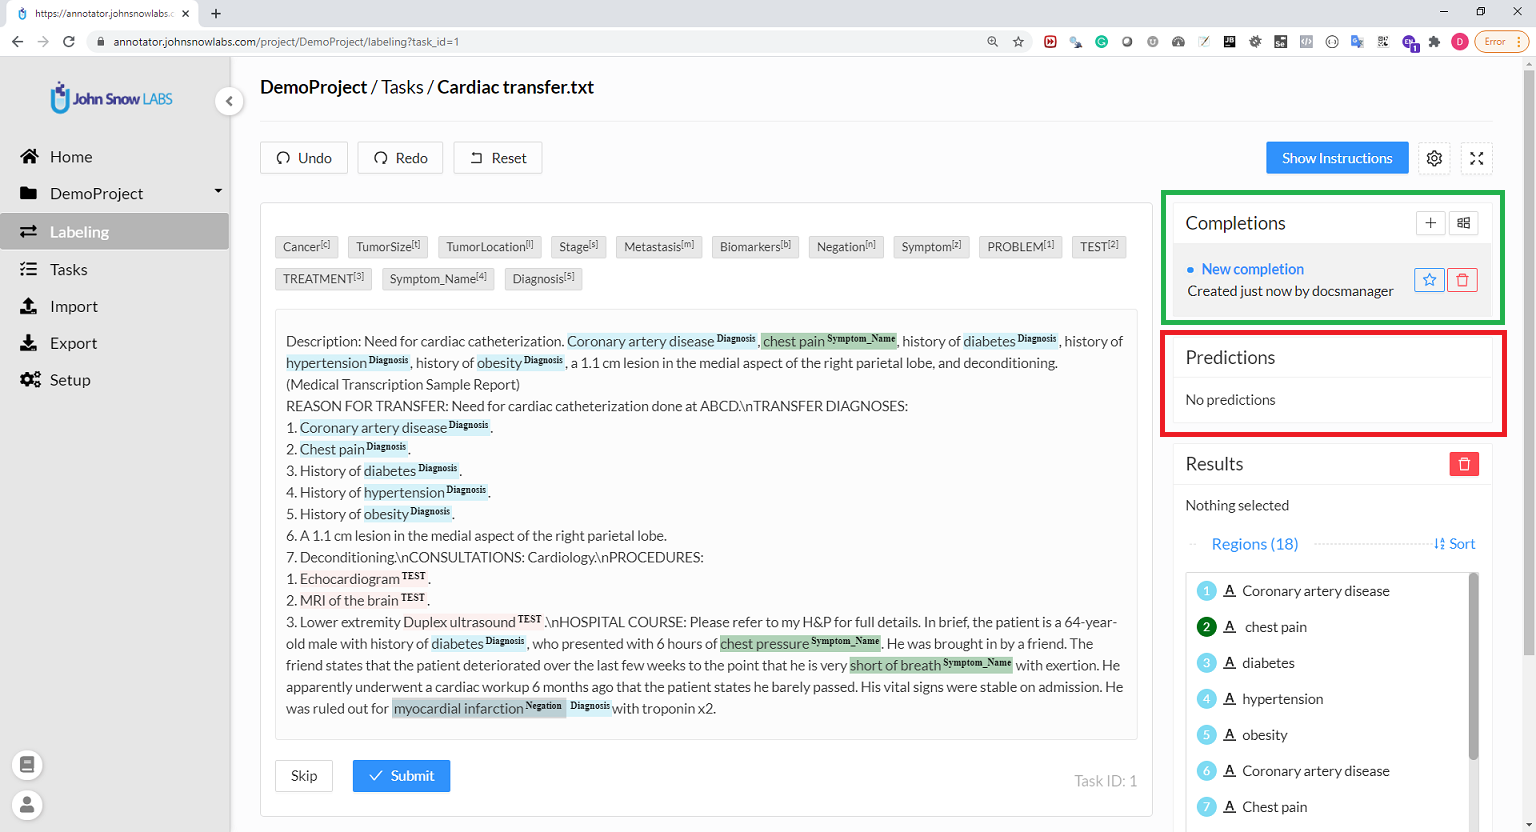
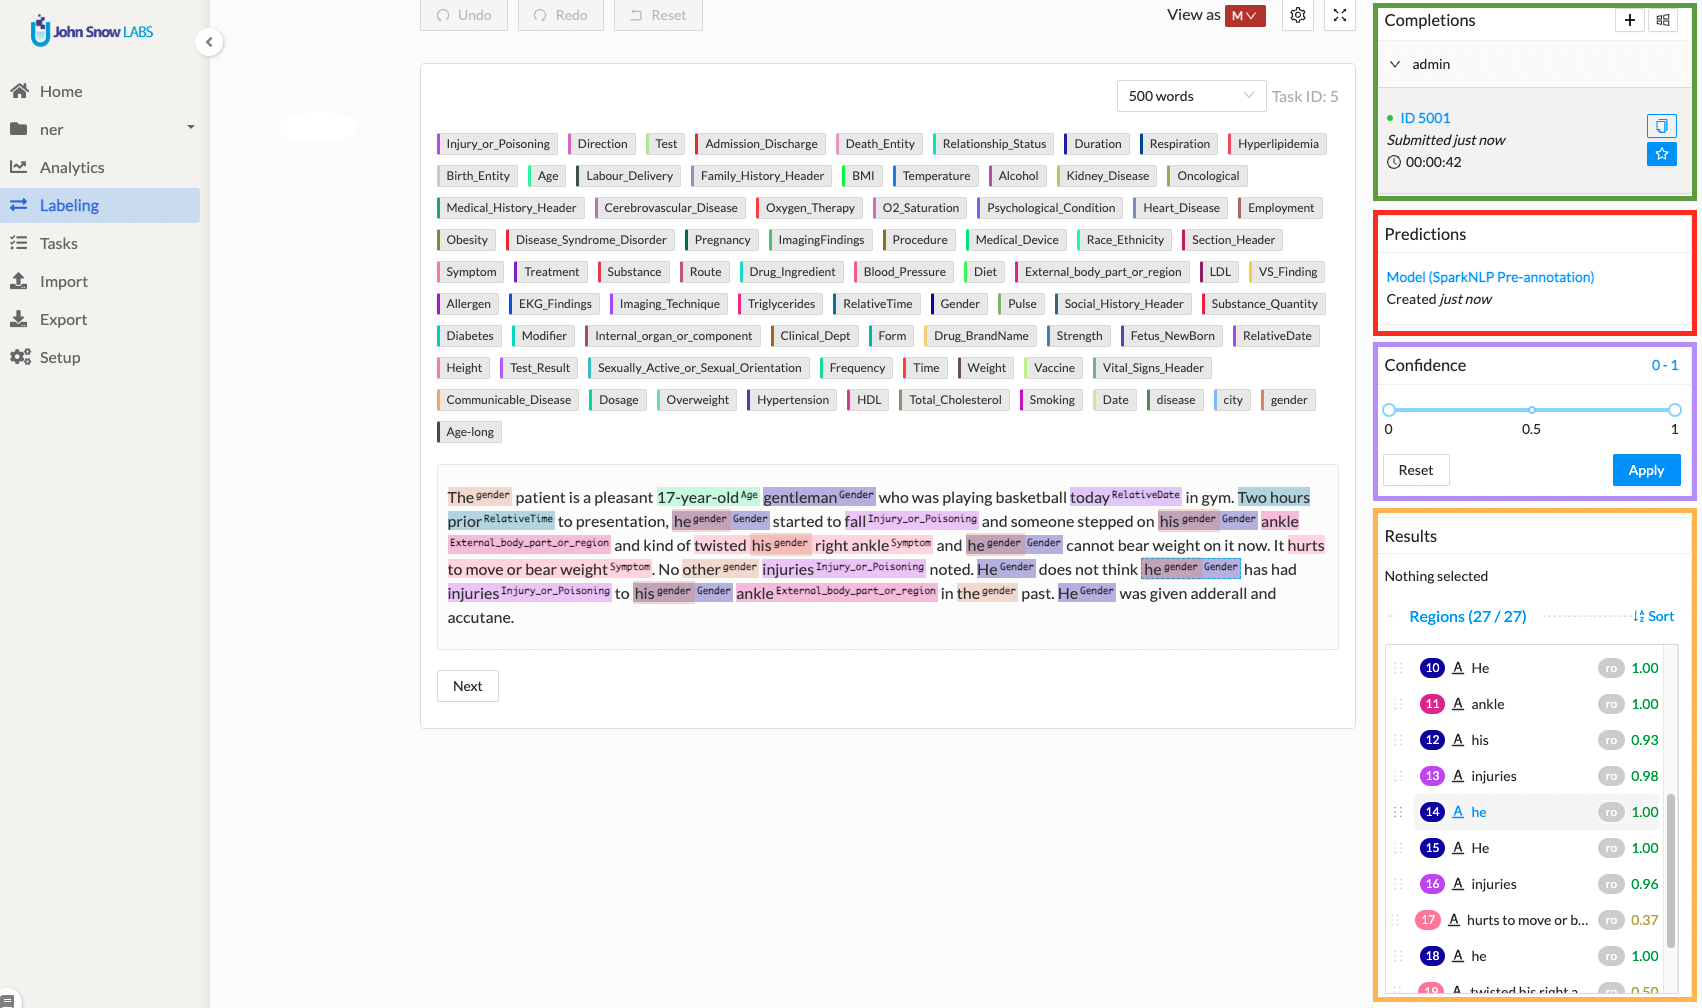
updated varous pages for ALAB doc

diff --git a/docs/en/alab/annotation.md b/docs/en/alab/annotation.md
@@ -24,6 +24,7 @@ Keyboard shortcuts are supported for all annotations – this enables having one
 On the upper side of the **Labeling** screen, you can find the list of labels defined for the project. In the center of the screen the content of the task is displayed. On the right side there are several widgets:
 - **Completions**
 - **Predictions**
+- **Confidence**
 - **Results**
 
 ### Completions
@@ -41,6 +42,13 @@ This is an important feature for ensuring a complete audit trail of all user act
 ### Predictions
 A **prediction** is a list of annotations created automatically, via the use of Spark NLP pretrained models. Predictions are created using the "Preannotate" button form the **Task** view. Predictions are read only - users can see them but cannot modify them in any way. 
 For reusing predictions to bootstrap the annotation process, users can copy them into a new completion which is editable. 
+
+### Confidence
+With v3.3.0, running preannotations on a text project provides one extra piece of information for the automatic annotations - the confidence score. This score is used to show the confidence the model has for each of the labeled chunks. It is calculated based on the benchmarking information of the model used to preannotate and on the score of each prediction. The confidence score is available when working on Named Entity Recognition, Relation, Assertion, and Classification projects and is also generated when using NER Rules.
+
+<img class="image image--xl" src="/assets/images/annotation_lab/confidence.png" style="width:100%; align:center; box-shadow: 0 3px 6px rgba(0,0,0,0.16), 0 3px 6px rgba(0,0,0,0.23);"/>
+
+On the Labeling screen, when selecting the Prediction widget, users can see that all preannotation in the Results section with a score assigned to them . By using the Confidence slider, users can filter out low confidence labels before starting to edit/correct the labels. Both the “Accept Prediction” action and the “Copy Prediction to Completion” feature apply to the filtered annotations via the confidence slider.
 
 
 ### Results

diff --git a/docs/en/alab/infrastructure.md b/docs/en/alab/infrastructure.md
@@ -49,6 +49,18 @@ Annotationlab 3.0.0 gives users the ability to view the list of all active serve
    - Usage: Let the user know the usage of the server. A server can be used for preannotation, training or OCR.
    - Deployed by: The user who deployed the server. This information might be useful for contacting the user who deployed a server before deleting it.
    - Deployed at: The deployed time of the server.
-
-        
+       
 ![server_page](https://user-images.githubusercontent.com/26042994/161711565-798bf34d-92ba-41c8-b0b8-2778a3e61561.gif)
+
+#### Statuses of Training and Preannotation Server
+A new column, status, is added to the server page that gives the status of training and preannotation servers. The available preannotation server statuses are:
+* green=idle
+* yellow=busy
+* red=stopped
+
+Users can visualize which servers is busy and which are idle. This is very useful information when the user intends to deploy a new server in replacement of an idle one. In this situation, the user can delete an idle server and deploy another preannotation/ training server.
+This information is also available on the preannotation popup when the user selects the deployed server to use for preannotation.
+<img class="image image--xl" src="/assets/images/annotation_lab/serverStatus1.png" style="width:100%; align:center; box-shadow: 0 3px 6px rgba(0,0,0,0.16), 0 3px 6px rgba(0,0,0,0.23);"/>
+
+Also, if any issues are encountered during server initialization, those are displayed on mouse-over the status value. Depending on the issue, changes might be required in the infrastructure settings and user will have to manually redeploy the training/preannotation server.
+<img class="image image--xl" src="/assets/images/annotation_lab/serverStatus2.png" style="width:100%; align:center; box-shadow: 0 3px 6px rgba(0,0,0,0.16), 0 3px 6px rgba(0,0,0,0.23);"/>

diff --git a/docs/en/alab/start_page.md b/docs/en/alab/start_page.md
@@ -31,7 +31,8 @@ The list of visible projects can be filtered based on group name, or using the s
 
 <img class="image image--xl" src="/assets/images/annotation_lab/1.6.0/project_group.png" style="width:100%; align:center; box-shadow: 0 3px 6px rgba(0,0,0,0.16), 0 3px 6px rgba(0,0,0,0.23);"/>
 
+## Project Cloning and Backup
+In previous versions, it was possible to Import/Export Tasks only from a Project. Apart from the Tasks other components like Project Configuration, Tags, etc. could not be easily exported/imported. With this release of v3.2.0, it is possible to perform the import/export of an entire Project. All project-related items (tasks, project configuration, project members, task assignments) can be imported/exported. In addition, users can clone an existing project as well.
 
-
-
+<img class="image image--xl" src="/assets/images/annotation_lab/anno_backup_clone.gif" style="width:100%; align:center; box-shadow: 0 3px 6px rgba(0,0,0,0.16), 0 3px 6px rgba(0,0,0,0.23);"/>
 
